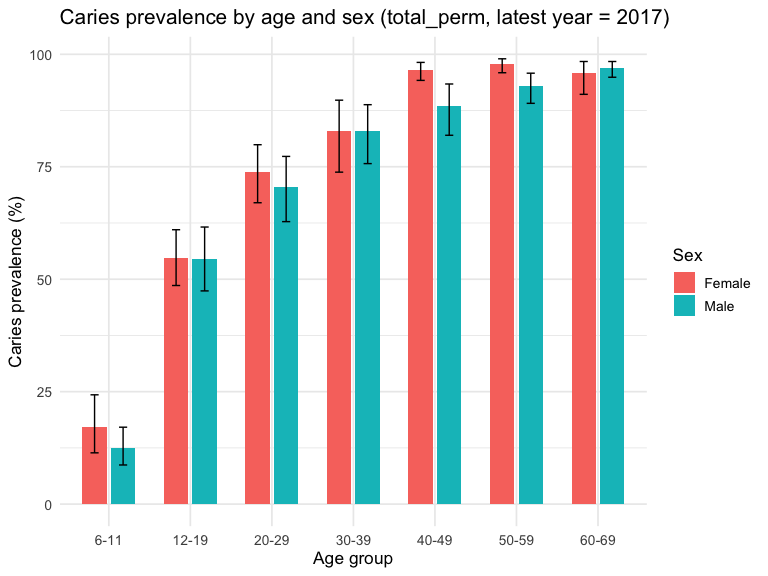
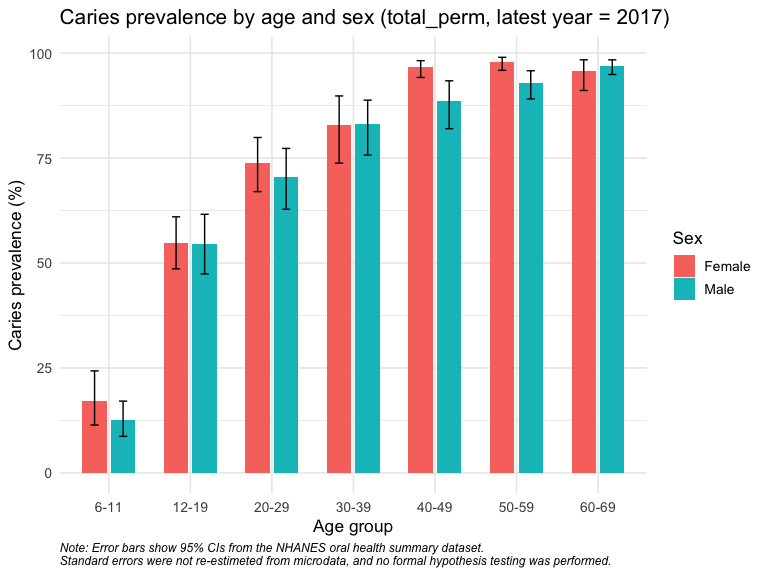
final modification

diff --git a/NHANES_Trend-Analysis.md b/NHANES_Trend-Analysis.md
@@ -19,14 +19,15 @@ and survey years.
 
 ## Results summary
 
-In the **latest NHANES cycle**, permanent-tooth caries prevalence
-increased steeply with age: prevalence was lowest in children 6–11
-years, higher in adolescents and young adults (12–29 years), and reached
-very high levels in mid- and older adulthood (40–69 years), where nearly
-all adults had experienced caries. Within each age group, females
-generally had slightly higher permanent-tooth caries prevalence than
-males, but sex differences were modest and confidence intervals
-overlapped.
+In the most recent available survey mid-year (2017 for permanent
+dentition and 2015 for some primary dentition measures), caries patterns
+showed strong age gradients. Permanent-tooth caries prevalence increased
+steeply with age: prevalence was lowest in children 6–11 years, higher
+in adolescents and young adults (12–29 years), and reached very high
+levels in mid- and older adulthood (40–69 years), where nearly all
+adults had experienced caries. Within each age group, females generally
+had slightly higher permanent-tooth caries prevalence than males, but
+sex differences were modest and confidence intervals overlapped.
 
 Across survey years, time-trend plots showed that **total caries
 remained high** in young children for primary teeth and in adults for
@@ -46,13 +47,28 @@ accumulation of caries is the dominant inequality**, sex differences are
 relatively minor, and recent NHANES cycles show greater improvement in
 untreated disease than in total caries burden.
 
+Taken together, these findings provide a coherent picture of dental
+caries patterns in recent NHANES data. Primary-tooth caries remains
+common in young children, with only modest changes in total caries over
+time but clearer declines in untreated disease, suggesting improved
+treatment among those who develop caries. For permanent teeth, caries
+accumulates across the life course, leading to very high prevalence in
+middle-aged and older adults, while untreated permanent caries has
+decreased or remained relatively low, again pointing to better
+restoration rather than true prevention. Sex gaps are small compared
+with the strong age gradients and show no consistent temporal trend,
+indicating that **age and dentition stage—rather than sex—are the main
+axes of inequality in U.S. dental caries burden.**
+
 ## Limitations
 
 This analysis has several important limitations. First, we relied on
-pre-aggregated NHANES summary estimates by age, sex, and survey cycle,
-so we could not adjust for individual-level covariates (e.g.,
-socioeconomic status, insurance, or race/ethnicity) or formally model
-interactions beyond simple stratification. Second, because only the
+pre-aggregated NHANES oral health summary estimates by age, sex, and
+survey cycle rather than individual-level microdata. As a result, we
+could not re-apply survey weights, compute design-based standard errors
+ourselves, or perform formal hypothesis testing; all results should
+therefore be interpreted as descriptive summaries of the published
+estimates rather than inferential analyses. Second, because only the
 “race = All” strata were used, we could not describe racial/ethnic
 disparities in caries, which are known to be substantial. Third, the
 descriptive time trends do not account for potential changes in NHANES
@@ -110,7 +126,7 @@ ggplot(d25, aes(x = year_mid, y = percent,
   labs(
     title = "Ages 2–5: Overall trend (sex = All, primary dentition)",
     subtitle = "Two series: Total caries (primary) vs Untreated caries (primary); shaded = 95% CI",
-    x = "Survey year", y = "Percent (%)", color = "Measure", fill = "Measure"
+    x = "Survey Mid-year", y = "Percent (%)", color = "Measure", fill = "Measure"
   ) +
   theme_minimal()
 ```
@@ -141,7 +157,7 @@ ggplot(d611, aes(x = year_mid, y = percent,
   labs(
     title = "Ages 6–11: Overall trend (sex = All, primary dentition)",
     subtitle = "Two series: Total caries (primary) vs Untreated caries (primary); shaded = 95% CI",
-    x = "Survey year", y = "Percent (%)", color = "Measure", fill = "Measure"
+    x = "Survey Mid-year", y = "Percent (%)", color = "Measure", fill = "Measure"
   ) +
   theme_minimal()
 ```
@@ -172,7 +188,7 @@ ggplot(d1219, aes(x = year_mid, y = percent,
   labs(
     title = "Ages 12–19: Overall trend (sex = All, permanent dentition)",
     subtitle = "Two series: Total caries (permanent) vs Untreated caries (permanent); shaded = 95% CI",
-    x = "Survey year", y = "Percent (%)", color = "Measure", fill = "Measure"
+    x = "Survey Mid-year", y = "Percent (%)", color = "Measure", fill = "Measure"
   ) +
   theme_minimal()
 ```
@@ -203,7 +219,7 @@ ggplot(d2029, aes(x = year_mid, y = percent,
   labs(
     title = "Ages 20–29: Overall trend (sex = All, permanent dentition)",
     subtitle = "Two series: Total caries (permanent) vs Untreated caries (permanent); shaded = 95% CI",
-    x = "Survey year", y = "Percent (%)", color = "Measure", fill = "Measure"
+    x = "Survey Mid-year", y = "Percent (%)", color = "Measure", fill = "Measure"
   ) +
   theme_minimal()
 ```
@@ -234,7 +250,7 @@ ggplot(d3039, aes(x = year_mid, y = percent,
   labs(
     title = "Ages 30–39: Overall trend (sex = All, permanent dentition)",
     subtitle = "Two series: Total caries (permanent) vs Untreated caries (permanent); shaded = 95% CI",
-    x = "Survey year", y = "Percent (%)", color = "Measure", fill = "Measure"
+    x = "Survey Mid-year", y = "Percent (%)", color = "Measure", fill = "Measure"
   ) +
   theme_minimal()
 ```
@@ -265,7 +281,7 @@ ggplot(d4049, aes(x = year_mid, y = percent,
   labs(
     title = "Ages 40–49: Overall trend (sex = All, permanent dentition)",
     subtitle = "Two series: Total caries (permanent) vs Untreated caries (permanent); shaded = 95% CI",
-    x = "Survey year", y = "Percent (%)", color = "Measure", fill = "Measure"
+    x = "Survey Mid-year", y = "Percent (%)", color = "Measure", fill = "Measure"
   ) +
   theme_minimal()
 ```
@@ -296,7 +312,7 @@ ggplot(d5059, aes(x = year_mid, y = percent,
   labs(
     title = "Ages 50–59: Overall trend (sex = All, permanent dentition)",
     subtitle = "Two series: Total caries (permanent) vs Untreated caries (permanent); shaded = 95% CI",
-    x = "Survey year", y = "Percent (%)", color = "Measure", fill = "Measure"
+    x = "Survey Mid-year", y = "Percent (%)", color = "Measure", fill = "Measure"
   ) +
   theme_minimal()
 ```
@@ -327,7 +343,7 @@ ggplot(d6069, aes(x = year_mid, y = percent,
   labs(
     title = "Ages 60–69: Overall trend (sex = All, permanent dentition)",
     subtitle = "Two series: Total caries (permanent) vs Untreated caries (permanent); shaded = 95% CI",
-    x = "Survey year", y = "Percent (%)", color = "Measure", fill = "Measure"
+    x = "Survey Mid-year", y = "Percent (%)", color = "Measure", fill = "Measure"
   ) +
   theme_minimal()
 ```
@@ -518,9 +534,14 @@ p_age_sex <- ggplot(latest,
                     target_meas, 2017),
     x = "Age group",
     y = "Caries prevalence (%)",
-    fill = "Sex"
+    fill = "Sex",
+    caption = 
+      "Note: Error bars show 95% CIs from the NHANES oral health summary dataset.\nStandard errors were not re-estimeted from microdata, and no formal hypothesis testing was performed."
   ) +
-  theme_minimal(base_size = 13)
+  theme_minimal(base_size = 13)+
+  theme(
+    plot.caption = element_text(hjust = 0, size = 9, face = "italic")  
+  )
 
 print(p_age_sex)
 ```
